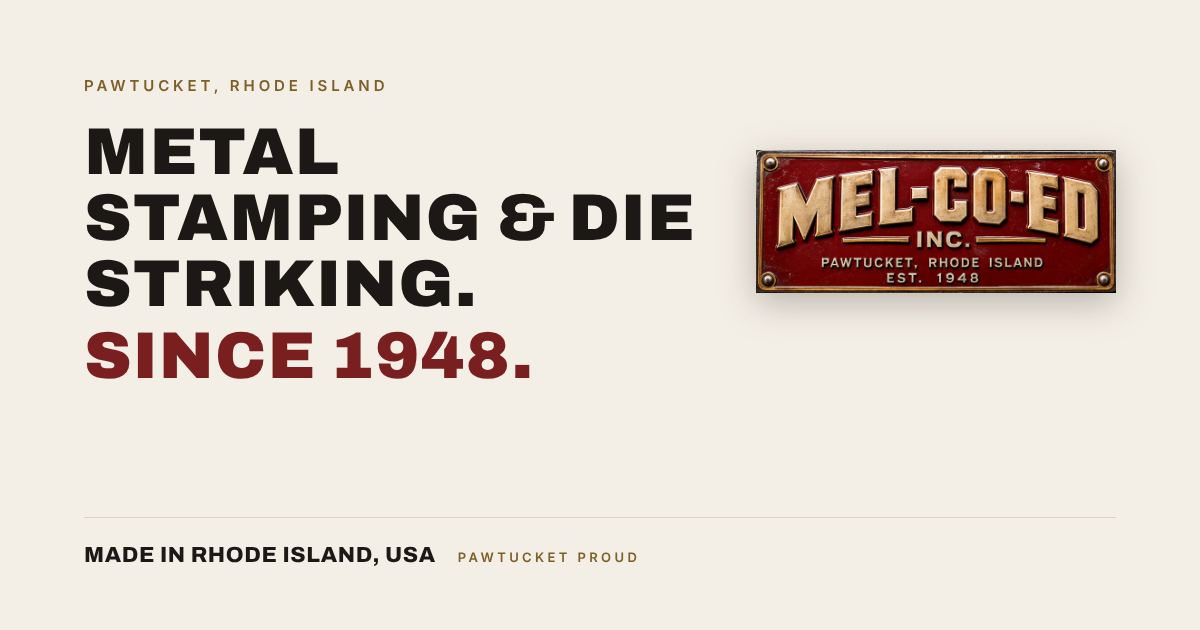
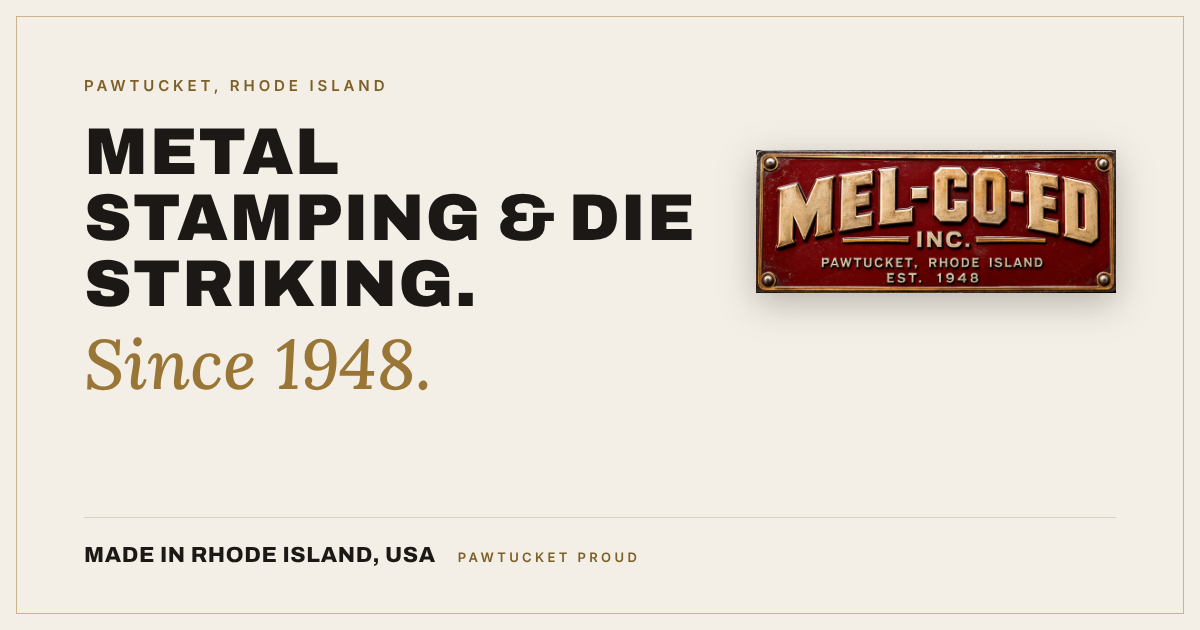
Hybrid look to match the catalogs and sell sheet
- Archivo block headlines stay (sell sheet); accent words now gold Lora
  italic in normal case, intro paragraphs in Lora (catalogs)
- Thin gold frame inside dark sections and the footer (catalog covers)
- Gold-outlined cards and callouts, gold step numbers (sell sheet)
- Oxblood kept for buttons and links
- Share image regenerated in the hybrid style

Claude-Session: https://claude.ai/code/session_013wkReKGQ8foZoQKPcMnJSA

Changed region(s): [[0.0617, 0.5127, 0.4625, 0.6333]]

diff --git a/src/styles/global.css b/src/styles/global.css
@@ -1,7 +1,9 @@
 /* Mel-Co-Ed design system — editorial, converted-factory studio.
    Warm cream paper, near-black type, oxblood accents, aged-brass labels, brushed steel.
-   Heavy block-sans headings (Archivo 800–900, uppercase), Inter body. No serif or
-   script display type. Square corners, generous space, crisp grid. Mobile-first: base styles target phones; min-width queries scale up. */
+   Hybrid that matches the printed catalogs and sell sheet: heavy block-sans headlines
+   (Archivo 800–900, uppercase, like the sell sheet), with accent words in gold Lora italic
+   and Lora intro paragraphs (like the catalogs), thin gold frames on dark sections, Inter body.
+   No script faces. Square corners, generous space, crisp grid. Mobile-first: base styles target phones; min-width queries scale up. */
 
 :root {
   /* Palette */
@@ -49,6 +51,8 @@
   --chrome-dark: var(--steel);
   --steel-dim: var(--rule-dark);
 
+  --font-serif: 'Lora Variable', Lora, Georgia, 'Times New Roman', serif; /* accents + intros, as in the catalogs */
+  --gold: #9a7636; /* catalog gold, deep enough for large text on cream (AA large) */
   --font-display: 'Archivo Variable', Archivo, 'Arial Black', 'Helvetica Neue', Arial, sans-serif;
   --font-body: 'Inter Variable', Inter, system-ui, -apple-system, 'Segoe UI', Roboto, sans-serif;
   --font-block: var(--font-body);
@@ -167,11 +171,17 @@ h2 {
   font-size: var(--fs-h2);
 }
 /* Key words in oxblood: <h1>Metal stamping <em>since 1948.</em></h1> */
+/* Accent words: gold Lora italic, set in normal case like the catalogs ("for three generations") */
 h1 em,
 h2 em,
 .accent {
-  font-style: normal;
-  color: var(--oxblood);
+  font-family: var(--font-serif);
+  font-style: italic;
+  font-weight: 500;
+  font-size: 1.04em;
+  letter-spacing: 0;
+  text-transform: none;
+  color: var(--gold);
 }
 h3,
 h4 {
@@ -186,6 +196,7 @@ h4 {
   font-size: 1rem;
 }
 .lead {
+  font-family: var(--font-serif);
   font-size: var(--fs-lead);
   line-height: 1.6;
   color: var(--ink-600);
@@ -264,7 +275,37 @@ h4 {
   color: var(--paper);
 }
 :is(.section--ink, .section--navy, .section--teal, .dark) :is(h1, h2) em {
-  color: var(--oxblood-300);
+  color: var(--brass-light);
+}
+/* Thin gold frame inside dark sections, as on the catalog covers */
+.section--ink,
+.section--navy,
+.section--teal,
+.page-hero--dark,
+.footer-main {
+  position: relative;
+  isolation: isolate;
+}
+.section--ink::after,
+.section--navy::after,
+.section--teal::after,
+.page-hero--dark::after,
+.footer-main::after {
+  content: '';
+  position: absolute;
+  inset: 8px;
+  border: 1px solid rgb(205 178 122 / 0.45);
+  pointer-events: none;
+  z-index: -1;
+}
+@media (min-width: 48rem) {
+  .section--ink::after,
+  .section--navy::after,
+  .section--teal::after,
+  .page-hero--dark::after,
+  .footer-main::after {
+    inset: 14px;
+  }
 }
 :is(.section--ink, .section--navy, .section--teal, .dark) .lead,
 :is(.section--ink, .section--navy, .section--teal, .dark) p {
@@ -610,10 +651,10 @@ h4 {
 .step__n {
   display: block;
   font-family: var(--font-display);
-    font-weight: 800;
+  font-weight: 800;
   font-size: 2rem;
   line-height: 1;
-  color: var(--oxblood);
+  color: var(--gold);
   margin-bottom: 0.75rem;
 }
 .step p {
